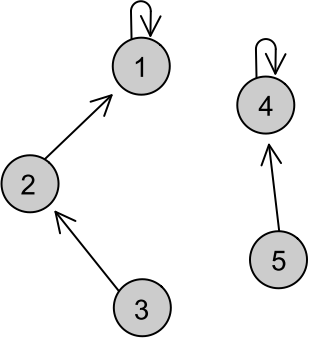
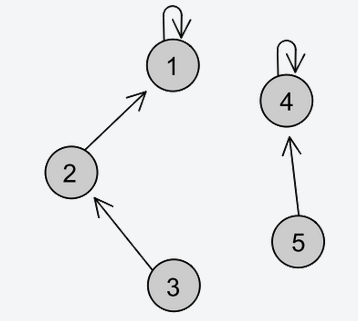
conserta as imagens

diff --git a/Python/union_find.md b/Python/union_find.md
@@ -10,15 +10,20 @@ Olhar se dois elementos estão na mesma família é muito simples, basta verific
 
 Suponha que o pai de cada elemento (identificado por um número de 1 a n) está salvo no vetor dicionário pai, onde pai[i] guarda o número do elemento que é o pai do elemento i.
 
-Desse modo, para encontrar o patriarca de i, basta olharmos seus ancestrais um a um até encontrarmos um patriarca (alguém que é pai de si mesmo).
+Desse modo, para encontrar o patriarca de i, basta olharmos seus ancestrais um a um até encontrarmos um patriarca (alguém que é pai de si 
+mesmo).
 
-![Figura 1](../assets/union1.gif)
+<p align='center'>
+<img src='../assets/union1.png' width=400>
+</p>
 
 Note que na figura acima há 5 elementos identificados por números de 1 a 5. Eles estão divididos em duas famílias, cujos patriarcas são 1 e 4.
 
 E para juntar dois elementos? Toda vez que dizemos que dois elementos quaisquer estão na mesma família, devemos fazer a união de todos os elementos das duas famílias em um conjunto só, ou seja: devemos associar o mesmo patriarca a todos eles. Para isso, basta que façamos o patriarca de uma família ser o pai do patriarca da outra, assim todos os descendentes do ex-patriarca agora serão descendentes do novo patriarca de todo o conjunto!
 
-![Figura 2](../assets/union2.gif)
+<p align='center'>
+<img src='../assets/union2.png' width=400>
+</p>
 
 ## 🔗 Implementação
 
